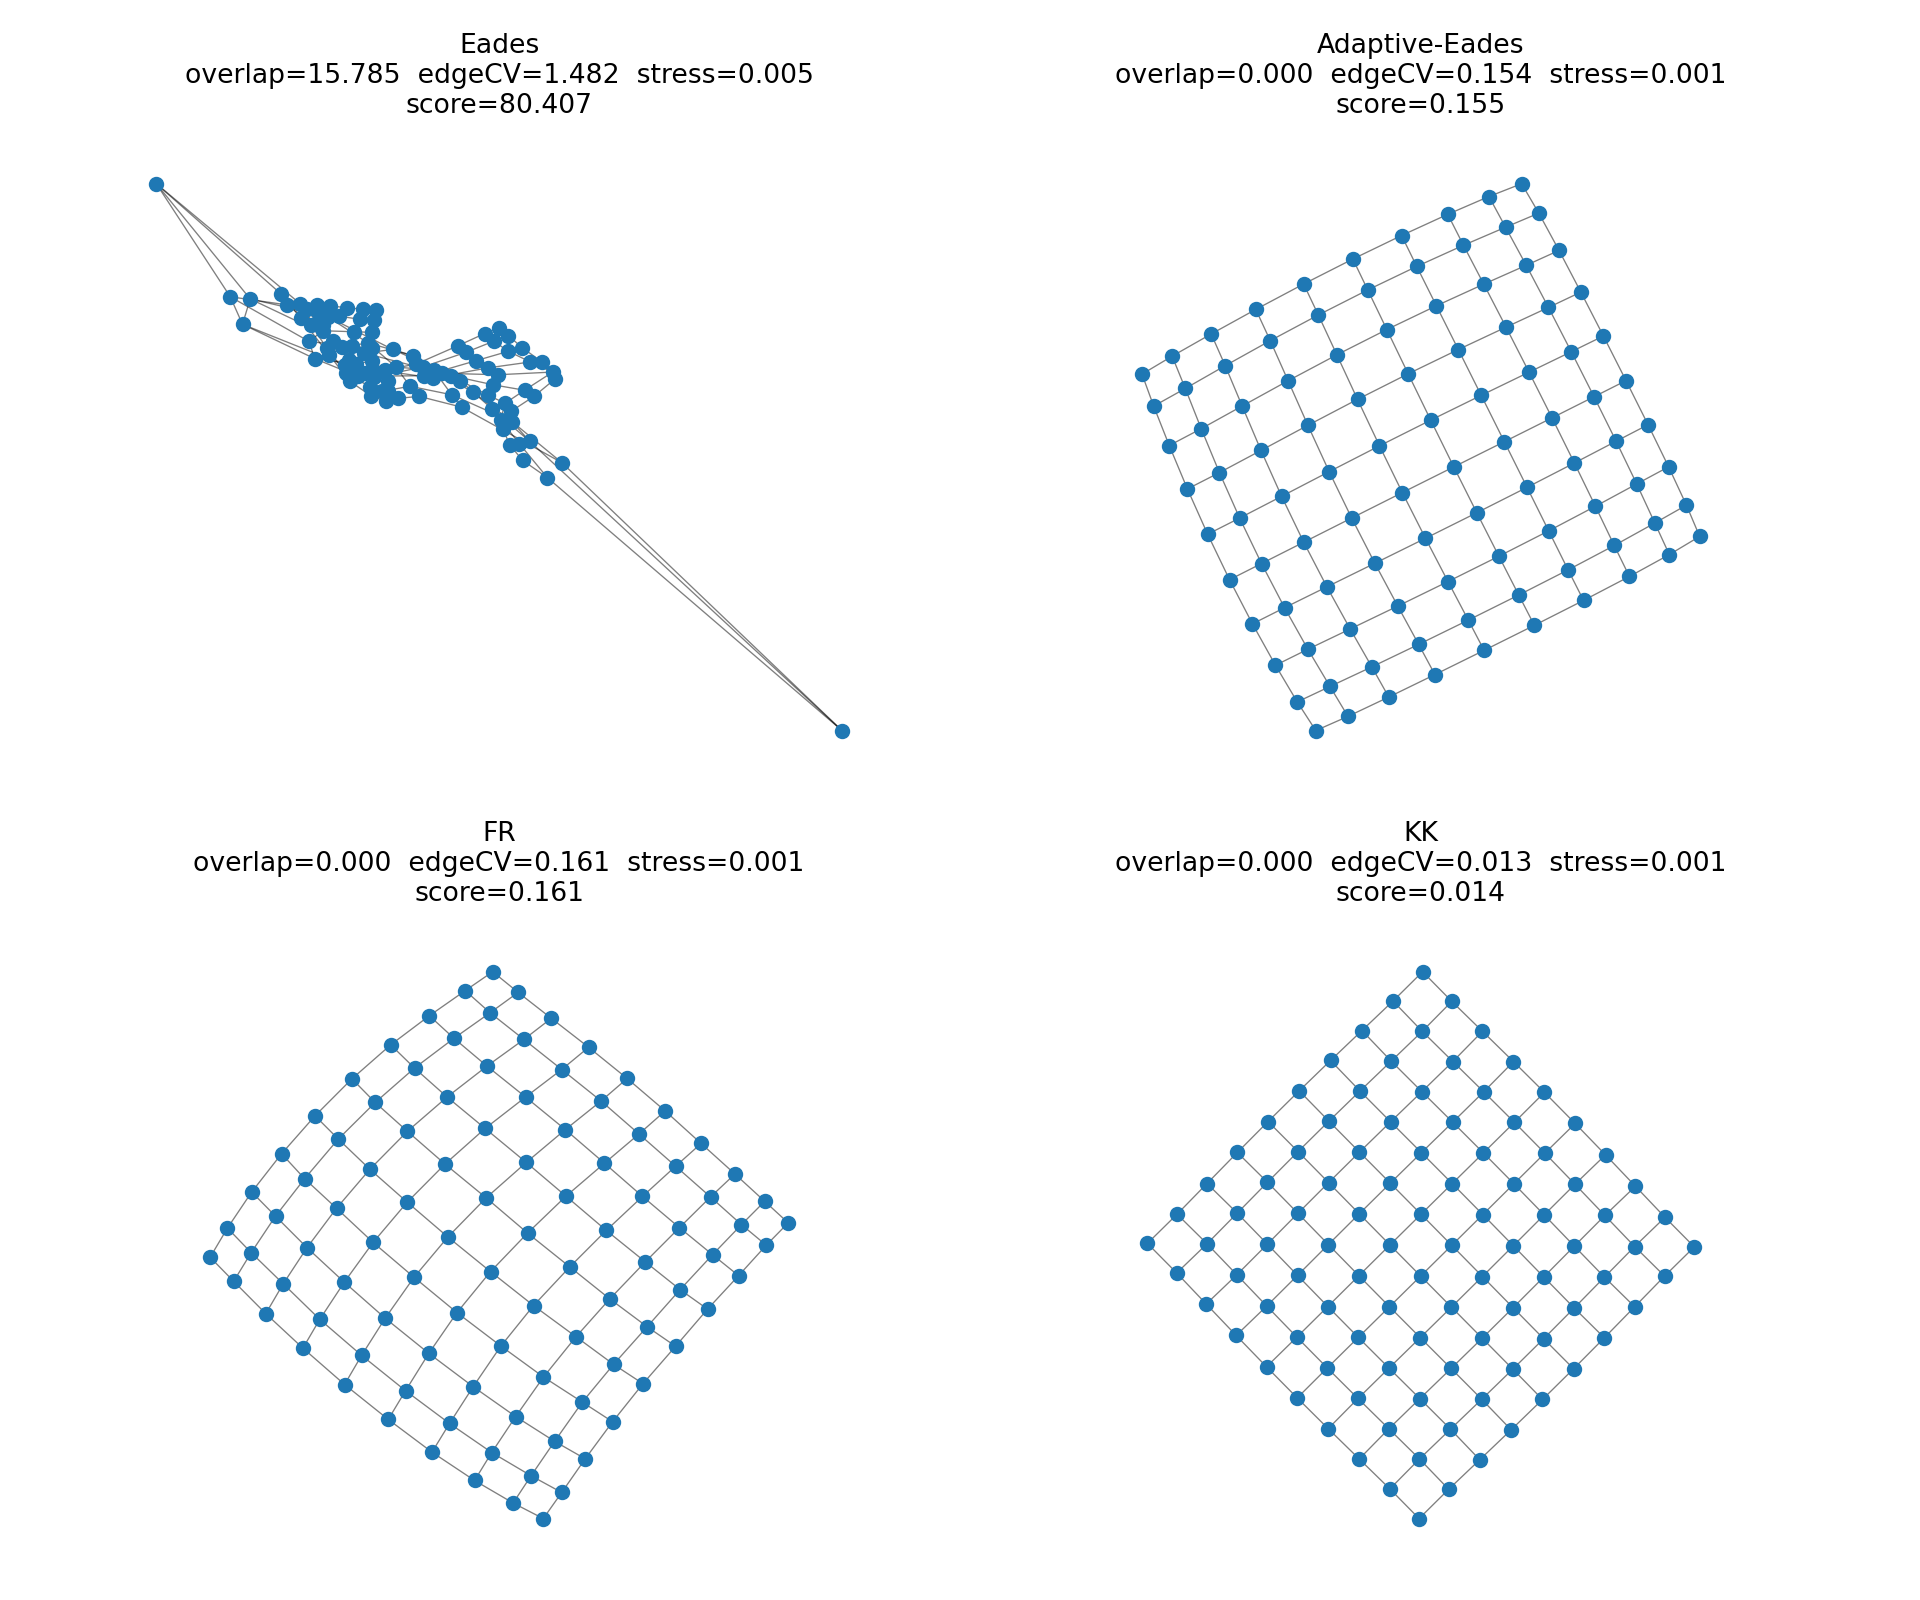
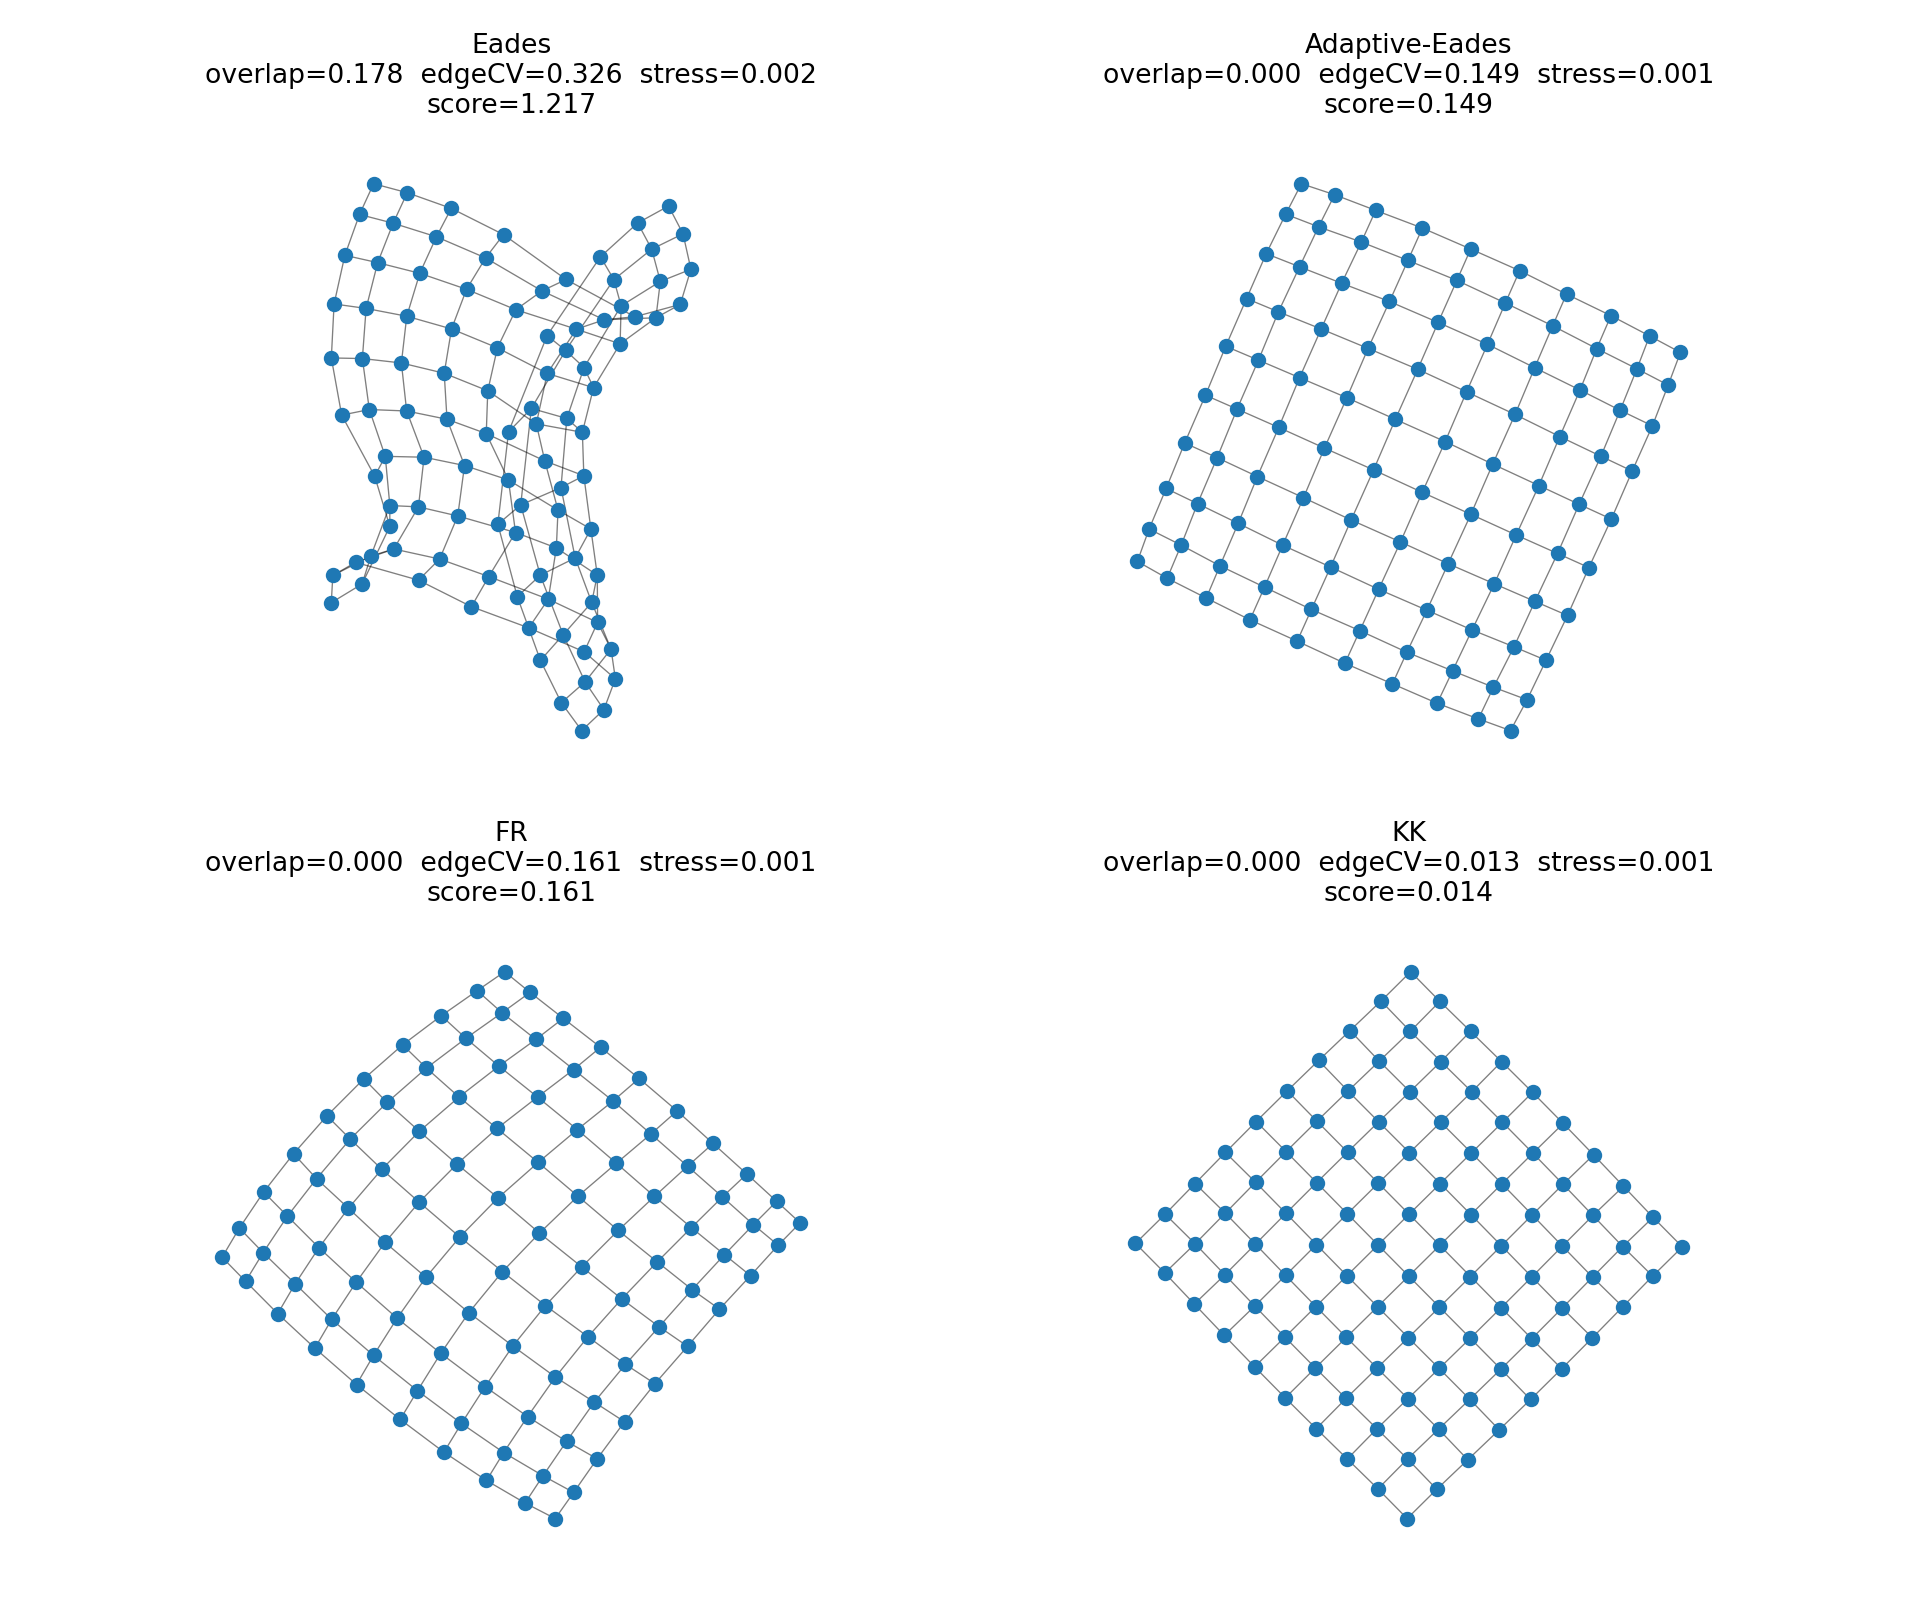
Updated Functions of baseline and adaptive Eades algorithm along with some parameter changes.

diff --git a/demo_layouts.py b/demo_layouts.py
@@ -105,8 +105,8 @@ def compute_metrics(G, pos, stress_pairs=1200, seed=1):
 # Your Eades baseline (modified: accept init positions + return history)
 # Same log attraction as your baseline code
 # -----------------------------
-def eades_baseline(adj_dict, init_pos, iterations=1000, epsilon=0.01, cooling_factor=0.95,
-                  k_repulsion=2.0, k_spring=1.0, ideal_spring_length=1.0, T0=1.0):
+def eades_baseline(adj_dict, init_pos, iterations=10000, epsilon=0.01, cooling_factor=0.95,
+                  k_repulsion=2.0, k_spring=1.0, ideal_spring_length=1.0, T0=3.0):
     positions = {n: (float(init_pos[n][0]), float(init_pos[n][1])) for n in adj_dict}
     temperature = T0
     hist_max_move = []
@@ -152,8 +152,15 @@ def eades_baseline(adj_dict, init_pos, iterations=1000, epsilon=0.01, cooling_fa
 
         max_move = 0.0
         for u in nodes:
-            dx = forces[u][0] * temperature
-            dy = forces[u][1] * temperature
+            fx, fy = forces[u][0], forces[u][1]
+            fmag = math.hypot(fx, fy) + 1e-12
+
+            # MOVEMENT CAP: move at most 'temperature' per iteration
+            move = min(fmag, temperature)
+
+            dx = (fx / fmag) * move
+            dy = (fy / fmag) * move
+
             max_move = max(max_move, math.hypot(dx, dy))
             positions[u] = (positions[u][0] + dx, positions[u][1] + dy)
 
@@ -174,8 +181,8 @@ def eades_baseline(adj_dict, init_pos, iterations=1000, epsilon=0.01, cooling_fa
 # 2) use SAME log attraction as baseline (so the only real change is temperature rule)
 # 3) clamp temperature so it never becomes negative or collapses too fast
 # -----------------------------
-def eades_adaptive(adj, init_pos, iterations=10000, epsilon=0.02, rate=0.2,
-                  k_rep=2.0, k_spring=1.0, ideal_spring_length=1.0, T0=1.0, Tmin=1e-4):
+def eades_adaptive(adj, init_pos, iterations=10000, epsilon=0.02, rate=0.05,
+                  k_rep=2.0, k_spring=1.0, ideal_spring_length=1.0, T0=3.0, Tmin=1e-4):
     pos = {n: (float(init_pos[n][0]), float(init_pos[n][1])) for n in adj}
     nodes = list(adj.keys())
 
@@ -224,8 +231,15 @@ def eades_adaptive(adj, init_pos, iterations=10000, epsilon=0.02, rate=0.2,
 
         max_move = 0.0
         for u in nodes:
-            dx = F[u][0] * T
-            dy = F[u][1] * T
+            fx, fy = F[u][0], F[u][1]
+            fmag = math.hypot(fx, fy) + 1e-12
+
+            # MOVEMENT CAP: move at most 'T' per iteration
+            move = min(fmag, T)
+
+            dx = (fx / fmag) * move
+            dy = (fy / fmag) * move
+
             max_move = max(max_move, math.hypot(dx, dy))
             pos[u] = (pos[u][0] + dx, pos[u][1] + dy)
 
